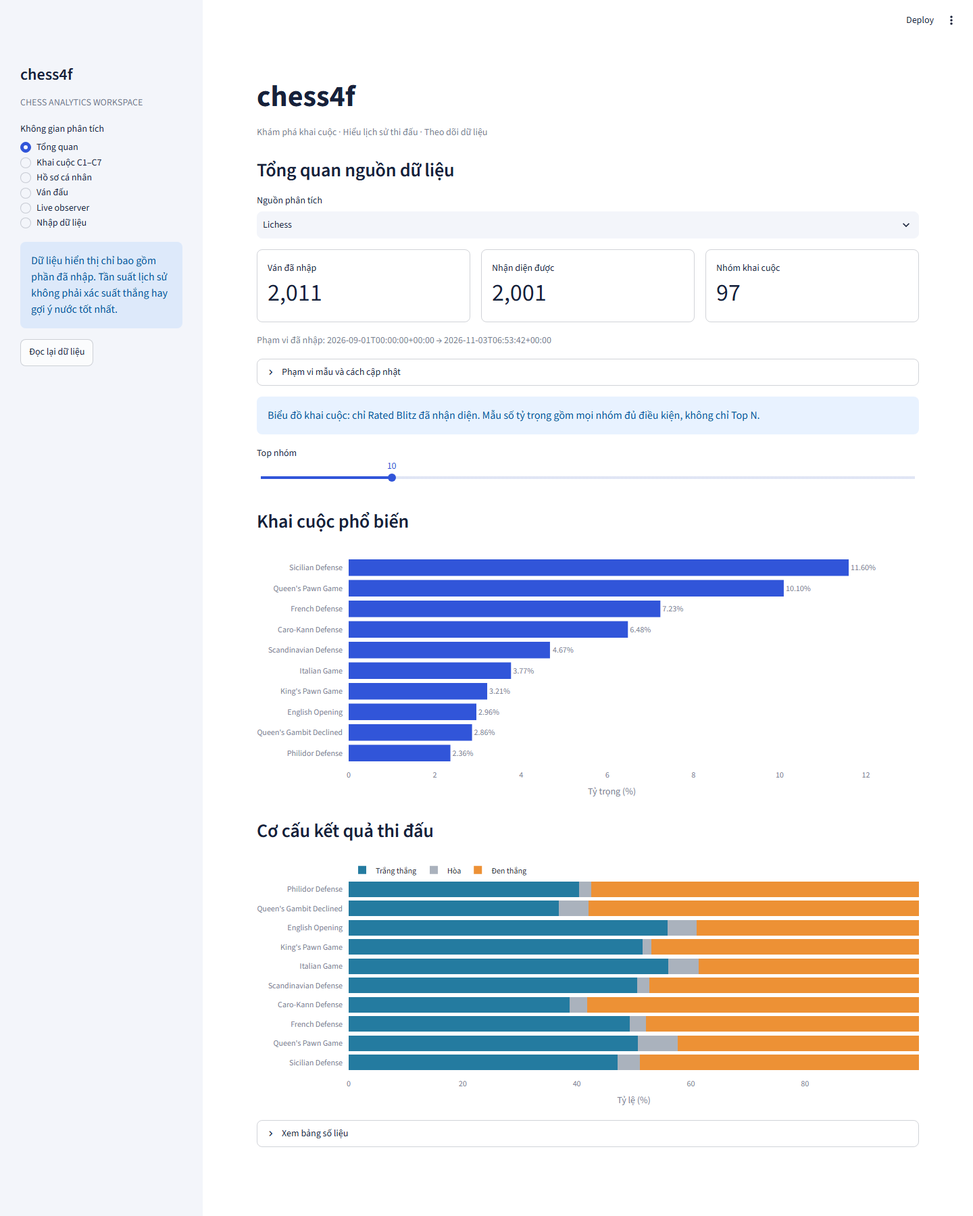
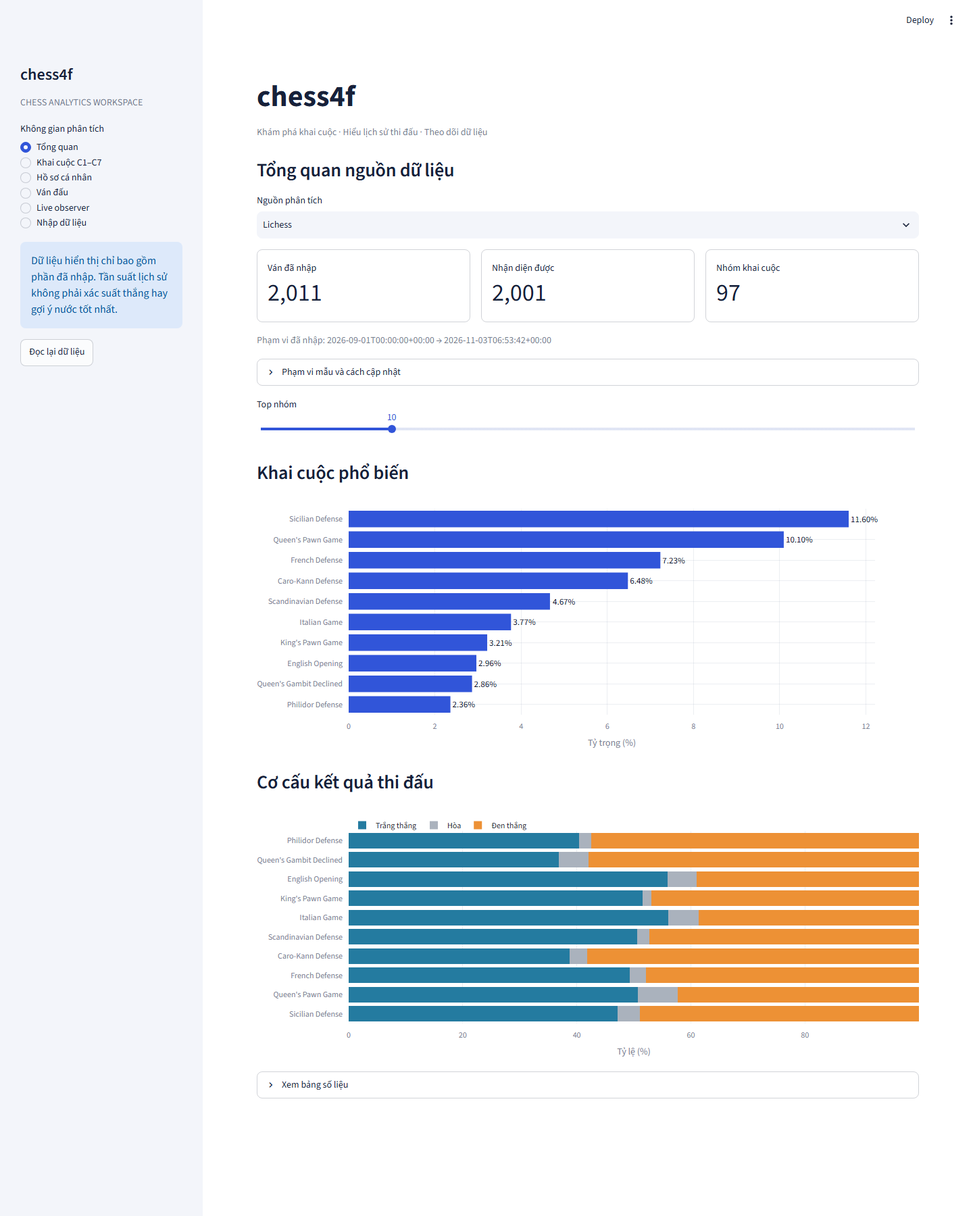
Theme dashboard charts and remove stale overview captions
Add a shared apps/theme.py palette/style helper and apply it to the
overview, player profile and C1-C7 views. The profile WDL bar becomes a
donut with a centered game total; openings/opponents bars get consistent
colors, count labels and hover styling. Remove the two sample-explanation
captions requested for the overview.

Also harden release publication: register_tables now tolerates a metastore
duplicate-key error only when the table is visible afterwards, with tests
for both paths. Docs refreshed for the 5,498-game release.

Changed region(s): [[0.25, 0.3111, 0.9688, 0.9333]]

diff --git a/apps/player_profile_view.py b/apps/player_profile_view.py
@@ -1,7 +1,10 @@
 """Player charts with explicit imported-history coverage."""
 import pandas as pd
 import plotly.express as px
+import plotly.graph_objects as go
 import streamlit as st
+
+from theme import COLORS, WDL_SHORT, style, thousands
 
 
 def render(data):
@@ -11,16 +14,19 @@ def render(data):
         st.info("Chưa có ván của tài khoản này trong dữ liệu đã nhập. Mở mục Tải / cập nhật lịch sử ở phía trên để đồng bộ tài khoản, hoặc thử Chess.com / hikaru với bộ demo hiện tại.")
         return
     for col, key, label in zip(st.columns(4), ["games", "wins", "draws", "losses"], ["Số ván", "Thắng", "Hòa", "Thua"]):
-        col.metric(label, f'{int(s.get(key) or 0):,}', border=True)
+        col.metric(label, thousands(int(s.get(key) or 0)), border=True)
     st.caption(f'Chỉ lịch sử đã nhập · {s["first_game"][:10]} → {s["last_game"][:10]} · Không khẳng định đầy đủ tài khoản')
-    results = pd.DataFrame({"Kết quả": ["Thắng", "Hòa", "Thua"], "Số ván": [s["wins"], s["draws"], s["losses"]]})
-    results["Tỷ lệ (%)"] = 100 * results["Số ván"] / s["games"]
+    wins, draws, losses = int(s.get("wins") or 0), int(s.get("draws") or 0), int(s.get("losses") or 0)
     with st.container(border=True):
         st.subheader("Kết quả thực chiến")
-        fig = px.bar(results, x="Kết quả", y="Tỷ lệ (%)", color="Kết quả", text_auto=".1f", hover_data=["Số ván"], color_discrete_map={"Thắng": "#247ba0", "Hòa": "#aab2bd", "Thua": "#ed9135"})
-        fig.update_layout(height=300, showlegend=False, margin=dict(t=20,b=20))
-        fig.update_yaxes(range=[0,100])
-        st.plotly_chart(fig, width="stretch")
+        donut = go.Figure(go.Pie(
+            labels=["Thắng", "Hòa", "Thua"], values=[wins, draws, losses], hole=0.55, sort=False,
+            marker=dict(colors=[WDL_SHORT["Thắng"], WDL_SHORT["Hòa"], WDL_SHORT["Thua"]]),
+            textinfo="percent", textfont=dict(size=14),
+            hovertemplate="%{label}: %{value:,} ván (%{percent})<extra></extra>"))
+        donut.add_annotation(text=f"{thousands(s['games'])} ván", showarrow=False, font=dict(size=20, color="#0f172a"))
+        style(donut, height=300, legend=dict(orientation="h", y=-0.08, x=0))
+        st.plotly_chart(donut, width="stretch")
     left, right = st.columns(2)
     with left, st.container(border=True):
         st.subheader("Khai cuộc thường sử dụng")
@@ -28,16 +34,20 @@ def render(data):
         if not openings.empty:
             openings["opening_family"] = openings.opening_family.fillna("Chưa nhận diện")
             ranked = openings.groupby("opening_family", as_index=False).games.sum().sort_values("games", ascending=False).head(10)
-            fig = px.bar(ranked.iloc[::-1], x="games", y="opening_family", orientation="h", labels={"games":"Số ván", "opening_family":""})
-            fig.update_layout(height=380, margin=dict(t=20,b=20))
+            fig = px.bar(ranked.iloc[::-1], x="games", y="opening_family", orientation="h",
+                         color_discrete_sequence=[COLORS["primary"]],
+                         labels={"games":"Số ván", "opening_family":""}, text_auto=",d")
+            style(fig, height=380)
             st.plotly_chart(fig, width="stretch")
         st.caption("Cộng số ván của mọi màu quân và thể thức trong lịch sử đã nhập.")
     with right, st.container(border=True):
         st.subheader("Đối thủ gặp nhiều nhất")
         opponents = pd.DataFrame(data["opponents"])
         if not opponents.empty:
-            fig = px.bar(opponents.head(10).iloc[::-1], x="games", y="opponent", orientation="h", hover_data=["score_pct"], labels={"games":"Số ván", "opponent":"", "score_pct":"Điểm người chơi (%)"})
-            fig.update_layout(height=380, margin=dict(t=20,b=20))
+            fig = px.bar(opponents.head(10).iloc[::-1], x="games", y="opponent", orientation="h",
+                         color_discrete_sequence=[COLORS["accent"]],
+                         hover_data=["score_pct"], labels={"games":"Số ván", "opponent":"", "score_pct":"Điểm người chơi (%)"})
+            style(fig, height=380)
             st.plotly_chart(fig, width="stretch")
         st.caption("Chỉ tính các lần đối đầu đã có trong kho dữ liệu.")
     history = pd.DataFrame(data["history"])
@@ -47,8 +57,11 @@ def render(data):
         trend = history[(history.speed == speed) & history.rating.notna()].copy()
         trend["played_at"] = pd.to_datetime(trend.played_at, utc=True)
         if not trend.empty:
-            fig = px.line(trend.sort_values(["played_at", "game_key"]), x="played_at", y="rating", markers=True, labels={"played_at":"Thời điểm UTC", "rating":"Elo trước ván"}, hover_data=["opponent", "outcome"])
-            fig.update_layout(height=320)
+            fig = px.line(trend.sort_values(["played_at", "game_key"]), x="played_at", y="rating", markers=True,
+                          color_discrete_sequence=[COLORS["primary"]],
+                          labels={"played_at":"Thời điểm UTC", "rating":"Elo trước ván"},
+                          hover_data=["opponent", "outcome"])
+            style(fig, height=320)
             st.plotly_chart(fig, width="stretch")
         else:
             st.info("Chưa có Elo hợp lệ trong lựa chọn này.")

diff --git a/apps/dashboard.py b/apps/dashboard.py
@@ -53,27 +53,30 @@ if section == "Tổng quan":
             if source == "lichess":
                 st.write("Mỗi lượt thu thập demo giới hạn 1.000 ván Rated Blitz đầu tiên khớp tháng. Bộ mẫu ban đầu tháng 9 và tháng 10/2026 gồm 2.000 ván; đồng bộ người chơi và ván trực tiếp có thể bổ sung dữ liệu; đây không phải giới hạn lưu trữ của hệ thống.")
                 st.write("Chạy lại cùng nguồn và giới hạn sẽ không cộng thêm ván trùng. Muốn mở rộng cần tăng giới hạn hoặc nhập thêm tháng, sau đó kiểm chứng và công bố bản mới.")
-                st.caption("Lịch Dagster hiện lấy tháng trước vào Chủ nhật, giới hạn 1.000 ván/lượt. Mẫu đầu tệp không đại diện toàn tháng.")
             elif source == "chesscom":
                 st.write("Bộ demo ban đầu gồm lịch sử Hikaru tháng 9/2026; lịch sử đồng bộ thêm được gộp theo ID ván duy nhất. Số ván phản ánh dữ liệu đã nhập, không đại diện toàn nền tảng.")
             else:
                 st.write("Nguồn PGN nhập thủ công, được phân tích riêng với hai nền tảng.")
-        st.info("Biểu đồ khai cuộc: chỉ Rated Blitz đã nhận diện. Mẫu số tỷ trọng gồm mọi nhóm đủ điều kiện, không chỉ Top N.")
         df = pd.DataFrame(data["openings"])
         if not df.empty:
+            from theme import COLORS, WDL, style
             n = st.slider("Top nhóm", 5, 30, 10)
             fig = px.bar(df.head(n).iloc[::-1], x="popularity_pct", y="opening_family", orientation="h",
-                         color_discrete_sequence=["#3155d9"], labels={"popularity_pct":"Tỷ trọng (%)", "opening_family":""})
+                         color_discrete_sequence=[COLORS["primary"]],
+                         labels={"popularity_pct":"Tỷ trọng (%)", "opening_family":""},
+                         hover_data={"n_games": ":,.0f"})
             st.subheader("Khai cuộc phổ biến")
             fig.update_traces(texttemplate="%{x:.2f}%", textposition="outside", cliponaxis=False)
-            fig.update_layout(height=max(380, n*28), margin=dict(t=20,r=65,b=20), yaxis_title=None)
+            style(fig, height=max(380, n*28), margin=dict(t=20, r=65, b=20), yaxis_title=None)
             st.plotly_chart(fig, width="stretch")
             shown = df.head(n).melt(id_vars=["opening_family"], value_vars=["white_win_pct","draw_pct","black_win_pct"],var_name="Kết quả",value_name="Tỷ lệ (%)")
             shown["Kết quả"] = shown["Kết quả"].map({"white_win_pct":"Trắng thắng","draw_pct":"Hòa","black_win_pct":"Đen thắng"})
             st.subheader("Cơ cấu kết quả thi đấu")
-            outcome = px.bar(shown,x="Tỷ lệ (%)",y="opening_family",color="Kết quả",orientation="h",barmode="stack", color_discrete_map={"Trắng thắng":"#247ba0","Hòa":"#aab2bd","Đen thắng":"#ed9135"})
-            outcome.update_layout(height=max(380,n*28),yaxis_title=None,legend_title_text="",legend=dict(orientation="h",y=1.1),margin=dict(t=40,b=20))
-            outcome.update_xaxes(range=[0,100])
+            outcome = px.bar(shown,x="Tỷ lệ (%)",y="opening_family",color="Kết quả",orientation="h",barmode="stack",
+                             color_discrete_map=WDL)
+            style(outcome, height=max(380, n*28), yaxis_title=None,
+                  legend=dict(orientation="h", y=1.08, x=0), margin=dict(t=40, b=20))
+            outcome.update_xaxes(range=[0, 100])
             st.plotly_chart(outcome,width="stretch")
             with st.expander("Xem bảng số liệu"):
                 st.dataframe(df, width="stretch", hide_index=True)

diff --git a/src/chess4f/lakehouse.py b/src/chess4f/lakehouse.py
@@ -134,6 +134,26 @@ def sql(statement, endpoint=None):
             response = http.get(next_uri)
 
 
+def register_tables(rid, locations):
+    """Register missing Delta tables; tolerate an already-registered table.
+
+    A partially registered schema or a retried publication can surface as a
+    metastore duplicate-key error even after the preceding SHOW TABLES check.
+    That is only accepted when the table is visible afterwards.
+    """
+    registered = {row["Table"] for row in sql(f"SHOW TABLES FROM chess.{rid}")}
+    for table, location in locations.items():
+        if table in registered:
+            continue
+        statement = (f"CALL chess.system.register_table(schema_name=>'{rid}', table_name=>'{table}', "
+                     f"table_location=>'s3://chess4f/releases/{rid}/{location}')")
+        try:
+            sql(statement)
+        except RuntimeError:
+            if table not in {row["Table"] for row in sql(f"SHOW TABLES FROM chess.{rid}")}:
+                raise
+
+
 def validate_publish(root, project, rid):
     rid = release_id(rid)
     lake = Lake(root)
@@ -143,13 +163,9 @@ def validate_publish(root, project, rid):
         if manifest["status"] not in ("uploaded", "published"):
             raise ValueError("Release must be uploaded first")
         sql(f"CREATE SCHEMA IF NOT EXISTS chess.{rid}")
-        registered = {r["Table"] for r in sql(f"SHOW TABLES FROM chess.{rid}")}
         locations = {name.replace("/", "_"): name for name in TABLES}
         locations.update({"spark_openings": "spark/gold/openings", "spark_player_games": "spark/gold/player_games"})
-        for table, location in locations.items():
-            if table not in registered:
-                sql(f"CALL chess.system.register_table(schema_name=>'{rid}', table_name=>'{table}', "
-                    f"table_location=>'s3://chess4f/releases/{rid}/{location}')")
+        register_tables(rid, locations)
         results = {}
         for name, expected in manifest["tables"].items():
             count = sql(f"SELECT count(*) n FROM chess.{rid}.{name.replace('/', '_')}")[0]["n"]

diff --git a/apps/opening_analysis.py b/apps/opening_analysis.py
@@ -3,6 +3,8 @@ import pandas as pd
 import plotly.express as px
 import streamlit as st
 
+from theme import COLORS, WDL, style
+
 
 def render(payload):
     st.header("Khai cuộc · mức sử dụng và kết quả")
@@ -78,12 +80,13 @@ def render(payload):
         melted = table.melt(id_vars=[key, "n_games"], value_vars=["white_wins", "draws", "black_wins"], var_name="Kết quả", value_name="count")
         melted["Tỷ lệ (%)"] = 100 * melted["count"] / melted.n_games
         melted["Kết quả"] = melted["Kết quả"].map({"white_wins": "Trắng thắng", "draws": "Hòa", "black_wins": "Đen thắng"})
-        fig = px.bar(melted, x="Tỷ lệ (%)", y=key, color="Kết quả", orientation="h", barmode="stack", color_discrete_map={"Trắng thắng": "#247ba0", "Hòa": "#aab2bd", "Đen thắng": "#ed9135"})
+        fig = px.bar(melted, x="Tỷ lệ (%)", y=key, color="Kết quả", orientation="h", barmode="stack",
+                     color_discrete_map=WDL)
         fig.update_xaxes(range=[0, 100])
     if table.empty:
         st.warning("Chưa đủ mẫu cho lựa chọn này. Hãy mở rộng bộ lọc hoặc điều chỉnh ngưỡng; ngưỡng thấp làm kết quả kém ổn định.")
     elif fig is not None:
-        fig.update_layout(height=520, margin=dict(t=30, b=30), legend_title_text="")
+        style(fig, height=520)
         if view.startswith(("C2", "C7")):
             fig.update_xaxes(type="category")
         st.plotly_chart(fig, width="stretch")

diff --git a/tests/test_lakehouse.py b/tests/test_lakehouse.py
@@ -52,3 +52,33 @@ def test_failed_parity_never_switches_published_pointer(tmp_path, monkeypatch):
 def test_release_identifier_rejects_sql_or_path_injection():
     with pytest.raises(ValueError):
         lakehouse.release_id("../other; DROP SCHEMA chess")
+
+
+def test_register_tables_tolerates_duplicate_after_partial_registration(monkeypatch):
+    calls = {"show": 0}
+
+    def fake_sql(statement):
+        if statement.startswith("SHOW TABLES"):
+            calls["show"] += 1
+            # First check sees nothing; after the failed CALL the table exists.
+            return [] if calls["show"] == 1 else [{"Table": "gold_openings"}]
+        if statement.startswith("CALL"):
+            raise RuntimeError("duplicate key value violates unique constraint UNIQUETABLE")
+        return []
+
+    monkeypatch.setattr(lakehouse, "sql", fake_sql)
+    lakehouse.register_tables("r_" + "a" * 32, {"gold_openings": "gold/openings"})
+    assert calls["show"] == 2
+
+
+def test_register_tables_reraises_when_table_stays_missing(monkeypatch):
+    def fake_sql(statement):
+        if statement.startswith("SHOW TABLES"):
+            return []
+        if statement.startswith("CALL"):
+            raise RuntimeError("catalog unavailable")
+        return []
+
+    monkeypatch.setattr(lakehouse, "sql", fake_sql)
+    with pytest.raises(RuntimeError, match="catalog unavailable"):
+        lakehouse.register_tables("r_" + "a" * 32, {"gold_openings": "gold/openings"})

diff --git a/apps/theme.py b/apps/theme.py
@@ -1,0 +1,40 @@
+"""Shared colors and Plotly styling for the chess4f dashboard.
+
+Keeps every chart visually consistent: one palette, white template, transparent
+backgrounds, subtle gridlines and clean hover labels.
+"""
+
+COLORS = dict(
+    primary="#3155d9",
+    white="#247ba0",
+    draw="#aab2bd",
+    black="#ed9135",
+    accent="#f59e0b",
+    grid="rgba(148,163,184,0.18)",
+)
+
+# Keyed by the Vietnamese labels the data frames actually use.
+WDL = {"Trắng thắng": COLORS["white"], "Hòa": COLORS["draw"], "Đen thắng": COLORS["black"]}
+WDL_SHORT = {"Thắng": COLORS["white"], "Hòa": COLORS["draw"], "Thua": COLORS["black"]}
+
+
+def style(fig, height=520, **layout):
+    """Apply the shared theme and return the figure for chaining."""
+    settings = dict(
+        height=height,
+        margin=dict(t=24, b=24, l=8, r=8),
+        font=dict(size=13, color="#0f172a"),
+        paper_bgcolor="rgba(0,0,0,0)",
+        plot_bgcolor="rgba(0,0,0,0)",
+        hoverlabel=dict(bgcolor="white", bordercolor="#cbd5e1", font=dict(color="#0f172a")),
+        legend_title_text="",
+    )
+    settings.update(layout)
+    fig.update_layout(**settings)
+    fig.update_xaxes(showgrid=True, gridcolor=COLORS["grid"], zeroline=False)
+    fig.update_yaxes(showgrid=True, gridcolor=COLORS["grid"], zeroline=False)
+    return fig
+
+
+def thousands(value):
+    return f"{value:,.0f}"

diff --git a/docs/CV.md b/docs/CV.md
@@ -18,7 +18,7 @@ Python 3.11 · Delta Lake (delta-rs) · DuckDB · PyArrow · MinIO S3 · Apache 
 ## English bullets
 
 - Built an end-to-end chess data platform ingesting public Lichess and Chess.com
-  games into Bronze/Silver/Gold Delta tables: 2,530 games and 186,383 move rows,
+  games into Bronze/Silver/Gold Delta tables: 5,498 games and 440,517 move rows,
   with content-addressed source objects (SHA-256), stable platform game IDs,
   idempotent upserts, quarantine and run manifests.
 - Implemented immutable release publication: snapshot under a writer lock,
@@ -35,7 +35,7 @@ Python 3.11 · Delta Lake (delta-rs) · DuckDB · PyArrow · MinIO S3 · Apache 
 - Added an observed-coverage ledger that reports games per source/month/day and
   UTC boundary exposure, so sample shape is documented instead of implied by a
   total.
-- Wrote 39 pytest tests covering repeat-ingest idempotency, quarantine,
+- Wrote 42 pytest tests covering repeat-ingest idempotency, quarantine,
   correction of obsolete move tails, temporal leakage cutoffs, SQL literal
   binding, release pinning, parity-failure pointer preservation, and queue
   retry semantics.
@@ -55,19 +55,19 @@ Python 3.11 · Delta Lake (delta-rs) · DuckDB · PyArrow · MinIO S3 · Apache 
   và retry theo tháng.
 - Thêm coverage ledger báo số ván theo nguồn/tháng/ngày và rủi ro biên UTC, buộc
   phạm vi mẫu phải minh bạch thay vì suy ra từ tổng số.
-- 39 test pytest cho idempotency, quarantine, sửa đuôi nước đi cũ, chặn rò rỉ
+- 42 test pytest cho idempotency, quarantine, sửa đuôi nước đi cũ, chặn rò rỉ
   tương lai, bind SQL, pin release, giữ nguyên pointer khi parity lỗi.
 
 ## Evidence
 
 | Claim | Evidence |
 |---|---|
-| 2,530 games / 186,383 moves | published release manifest `data/published/latest.json` |
+| 5,498 games / 440,517 moves | published release manifest `data/published/latest.json` |
 | Spark + Trino parity before publish | `lakehouse.validate_publish`, `jobs/build_gold.py`, docs/LAKEHOUSE.md |
 | Trino-only serving, 503 on failure | `src/chess4f/trino_serving.py`, `tests/test_serving.py` |
 | Dagster jobs/schedules/queue | `src/chess4f/definitions.py`, docs/ORCHESTRATION.md |
 | Coverage ledger | `src/chess4f/coverage.py`, docs/COVERAGE.md |
-| Test count | `pytest -q` → 39 passed |
+| Test count | `pytest -q` → 42 passed |
 | Real UI screenshots | `docs/images/*.png` captured with Playwright, embedded in README |
 
 ## Do not claim

diff --git a/docs/COVERAGE.md b/docs/COVERAGE.md
@@ -2,7 +2,7 @@
 
 `chess4f coverage [--source lichess|chesscom|import] [--write]` reads the local
 Silver table and prints what was actually imported per source, month and day.
-It exists because a single total ("2,530 games") hides *where inside a month*
+It exists because a single total ("5,498 games") hides *where inside a month*
 those games came from.
 
 This is an operational artifact, not a published Delta table and not a
@@ -55,15 +55,24 @@ checkpoint exists.
 
 | Source | Games | Month | Games | Days | First day | Last day | Scan |
 |---|---:|---|---:|---:|---:|---:|---|
-| lichess | 2,011 | 2026-09 | 1,000 | 1 | 1,000 | 0 | `limited` cap 1,000 |
-| lichess | 2,011 | 2026-10 | 1,010 | 2 | 1,000 | 10 | `unchanged_source_validator` |
+| lichess | 2,011 | 2026-09 | 1,000 | 1 | 1,000 | 0 | limited cap 1,000 |
+| lichess | 2,011 | 2026-10 | 1,010 | 2 | 1,000 | 10 | none |
 | lichess | 2,011 | 2026-11 | 1 | 1 | 0 | 0 | none (single live game) |
-| chesscom | 519 | 2026-09 | 509 | 21 | 0 | 4 | none (player archive) |
-| chesscom | 519 | 2026-10 | 10 | 2 | 0 | 0 | none (player archive) |
+| chesscom | 3,487 | 2026-03 | 295 | 17 | 6 | 0 | none (player archive) |
+| chesscom | 3,487 | 2026-04 | 177 | 15 | 0 | 0 | none |
+| chesscom | 3,487 | 2026-05 | 488 | 17 | 0 | 0 | none |
+| chesscom | 3,487 | 2026-06 | 709 | 24 | 0 | 29 | none |
+| chesscom | 3,487 | 2026-07 | 588 | 22 | 41 | 47 | none |
+| chesscom | 3,487 | 2026-08 | 548 | 21 | 100 | 0 | none |
+| chesscom | 3,487 | 2026-09 | 600 | 21 | 0 | 4 | none |
+| chesscom | 3,487 | 2026-10 | 82 | 14 | 0 | 0 | none |
 
-Two conclusions the project must keep stating:
+Conclusions the project must keep stating:
 
 1. The Lichess September sample is **single-day**, not a monthly sample.
-2. The October sample is the first 1,000 games of 1 October plus 10 later games
-   from an explicit player sync, so month-over-month opening comparisons are
-   illustrative, not population trends.
+2. The Lichess October sample is the first 1,000 games of 1 October plus 10
+   later games from an explicit player sync.
+3. Chess.com now spans March-October 2026 because several accounts were synced;
+   this is broader per-account history, still not a platform-wide sample.
+4. Month-over-month opening comparisons remain illustrative, not population
+   trends.

diff --git a/docs/STATUS.md b/docs/STATUS.md
@@ -2,11 +2,11 @@
 
 ## Verified current functionality
 - Unified Compose: MinIO, Hive Metastore, Trino, FastAPI and Streamlit; Spark runs as an on-demand local job. Dagster runs on the host.
-- 2,530 unique real games: 2,011 Lichess and 519 Chess.com. The initial monthly sample remains 2,000 Lichess games; player sync/live added 11. Samples are bounded, not population estimates.
+- 5,498 unique real games: 2,011 Lichess and 3,487 Chess.com. The initial Lichess monthly sample remains 2,000 games; username syncs (hikaru, qbui, bodoiheud) and live ingestion added the rest. Samples stay bounded per account/month, not platform-wide population estimates.
 - Username history sync from both Chess.com and Lichess passed download → Delta → MinIO → Spark comparison → Trino publication. Explicit sync button uses a selected month range and cap, not an unrestricted account crawl.
 - Public Lichess game eRIlxQlE was observed through resignation, then automatically queued and published as a finished game. Live updates are source-delayed; Chess.com live is not implemented.
 - Published release after first live ingestion: r_79b2a4f399dc48cbad86b447d1c730cc. Re-import checks may produce a newer release without increasing unique counts.
-- 39 unit tests passed. Real Trino overview/profile/replay/habits parity and all seven C1–C7 views passed again on 2026-11-03; recognized Rated Blitz cube contains 1,991 games.
+- 42 unit tests passed. Real Trino overview/profile/replay/habits parity and all seven C1–C7 views passed again on 2026-11-03; recognized Rated Blitz cube contains 1,991 games.
 - Dagster 1.13.28 webserver/daemon verified running with both schedules and the user-request sensor `RUNNING`.
 - Real dashboard screenshots (overview, player profile, opening analysis, delayed live observer) are committed under `docs/images/` and captured with Playwright, not mocked.
 - Prediction navigation removed. Traceability navigation hidden; backend retained. Overview no longer displays the internal release ID.

diff --git a/docs/VALIDATION.md b/docs/VALIDATION.md
@@ -99,3 +99,12 @@ With the Docker stack already running and the host Dagster restarted through `sc
 - Deployed by rebuilding the `chess4f:local` image and recreating api/dashboard. Verified inside the running API that `month_plan('2026-7','2026-08')` returns `['2026-07','2026-08']`, and `POST /requests` with `2026-13` returns HTTP 422 `{"detail":"start has an invalid month: '2026-13'"}` instead of a raw `fromisoformat` error.
 - The Streamlit error box now prints the API `detail` string rather than the raw JSON envelope. Full suite: **39 passed**.
 
+
+## 2026-11-03 profile auto-fetch exercised and dataset grown
+
+- The auto-fetch path was exercised with real accounts: Chess.com `hikaru` (6 months), `qbui` and `bodoiheud` (3 months each). They completed through sensor -> collection -> Spark parity -> Trino publication without running an overview backfill first.
+- One request (`dambi333`) failed during publication with a Hive Metastore duplicate table registration (`UNIQUETABLE`). That was a real idempotency gap, not a missing account: `register_tables` now re-checks table visibility after a failed `CALL register_table` and only accepts the duplicate when the table exists. Two regression tests cover the tolerated and re-raised paths.
+- New published release `r_85d7b319936244558d95a1776b9a1405`: **5,498 games** (2,011 Lichess / 3,487 Chess.com), 440,517 move rows, 696 opening aggregate rows, 10,996 player-perspective rows, 1,000 historical quarantine rows.
+- `scripts/verify-serving.py` passed again, and `scripts/verify-openings.py` rendered all C1-C7 views; the Lichess Rated Blitz cube still totals 1,991 games.
+- Full unit suite: **42 passed** (includes the two registration-resilience tests).
+- Dashboard visual pass: shared `apps/theme.py` palette and layout helper, a WDL donut with a centered game total, consistent hover/legend/grid styling across overview, player profile and C1-C7, and two explanatory captions removed from the overview on request. Screenshots recaptured.

diff --git a/docs/DEMO.md b/docs/DEMO.md
@@ -14,7 +14,7 @@ If Dagster is already running, use the existing instance; do not launch a duplic
 ## Demo sequence and screenshots
 
 1. Docker Desktop: one chess4f group, separate services. Capture healthy API and Trino. Spark is an on-demand job, not an always-running cluster.
-2. Overview: choose Lichess (2,011 games at this checkpoint) then Chess.com (519 games). Explain sample coverage, source separation and the distinction between source samples. These numbers describe the documented demo, not a fixed application limit.
+2. Overview: choose Lichess (2,011 games at this checkpoint) then Chess.com (3,487 games). Explain sample coverage, source separation and the distinction between source samples. These numbers describe the documented demo, not a fixed application limit.
 3. Opening analysis: show C1, C3 and C4; change month/Elo filters and sample threshold. Explain white score = wins + half draws divided by games. Show C2/C7 as two observed sample months, not a reliable long-term trend. Export one CSV.
 4. Player profile: chesscom / hikaru. Show results, opponents and openings. Copy one game key into the replay screen; show historical habits and the insufficient-history message where applicable.
 5. Player sync: expand the download form, choose months and a cap, then submit. Show durable queued/running/published status. Requests can take minutes while Spark/Trino validate.

diff --git a/README.md b/README.md
@@ -43,7 +43,7 @@ Demo sources (bounded samples; see validation notes for publication status):
 | Lichess | First 1,000 matching Rated Blitz games from each September and October 2026 archive | 2,000 |
 | Chess.com | Public `hikaru` archive for September 2026 | 509 |
 
-Validation added 10 October games for Lichess `german11`, 10 for Chess.com `hikaru`, and one completed observed Lichess game: **2,530 unique games** at this checkpoint.
+Validation added 10 October games for Lichess `german11`, 10 for Chess.com `hikaru`, and one completed observed Lichess game, plus later username syncs: **5,498 unique games** (2,011 Lichess / 3,487 Chess.com) at this checkpoint.
 
 The Lichess demo is a **bounded integration sample**, not a random or representative monthly sample; the September cap selects 1,000 games all played on 1 September. The Chess.com sample is one player's history, not platform-wide data. Sources are selectable and not silently pooled. `chess4f coverage` records this shape per month and day. Data, models, credentials and virtual environments are excluded from Git.
 
